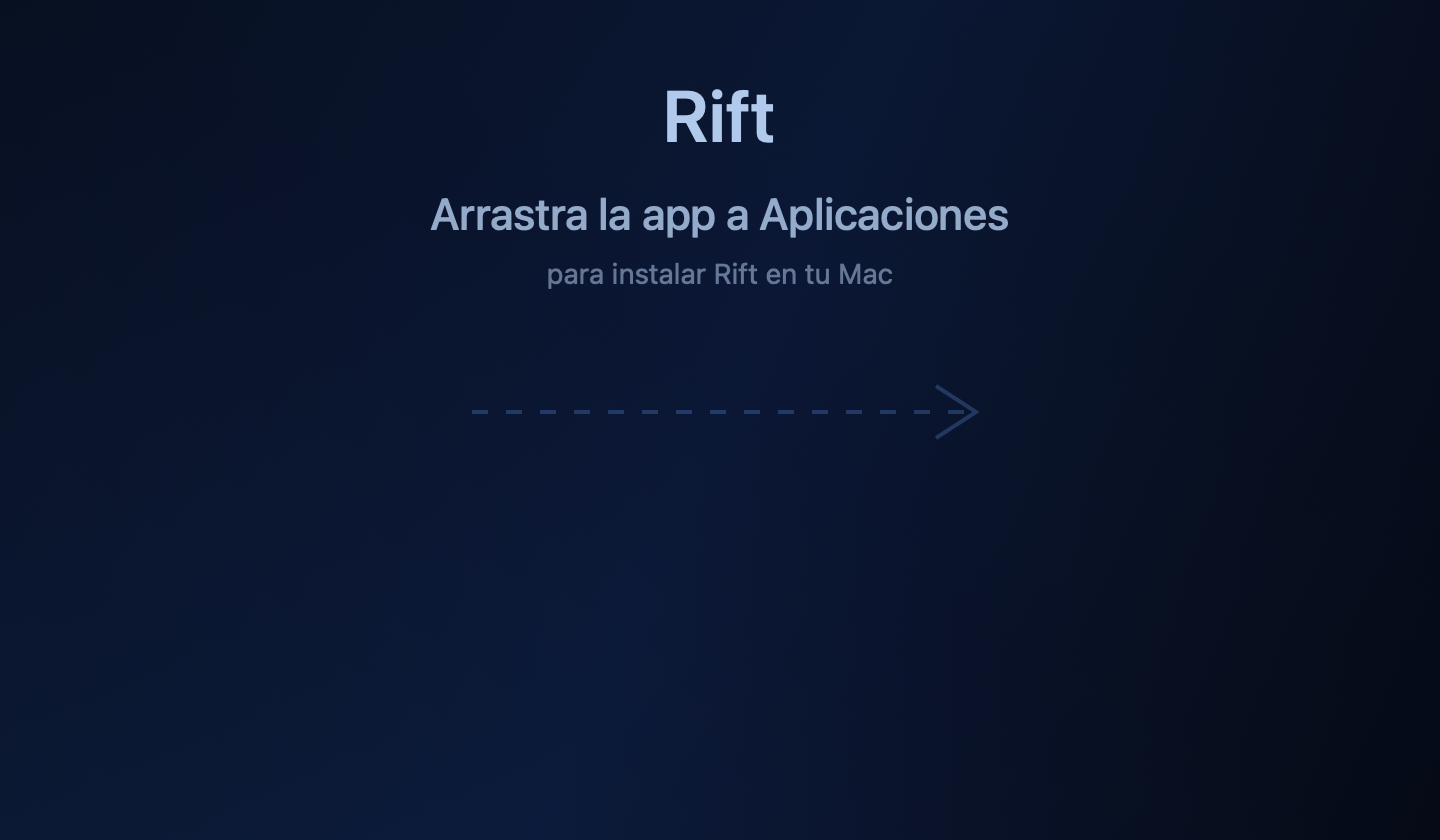
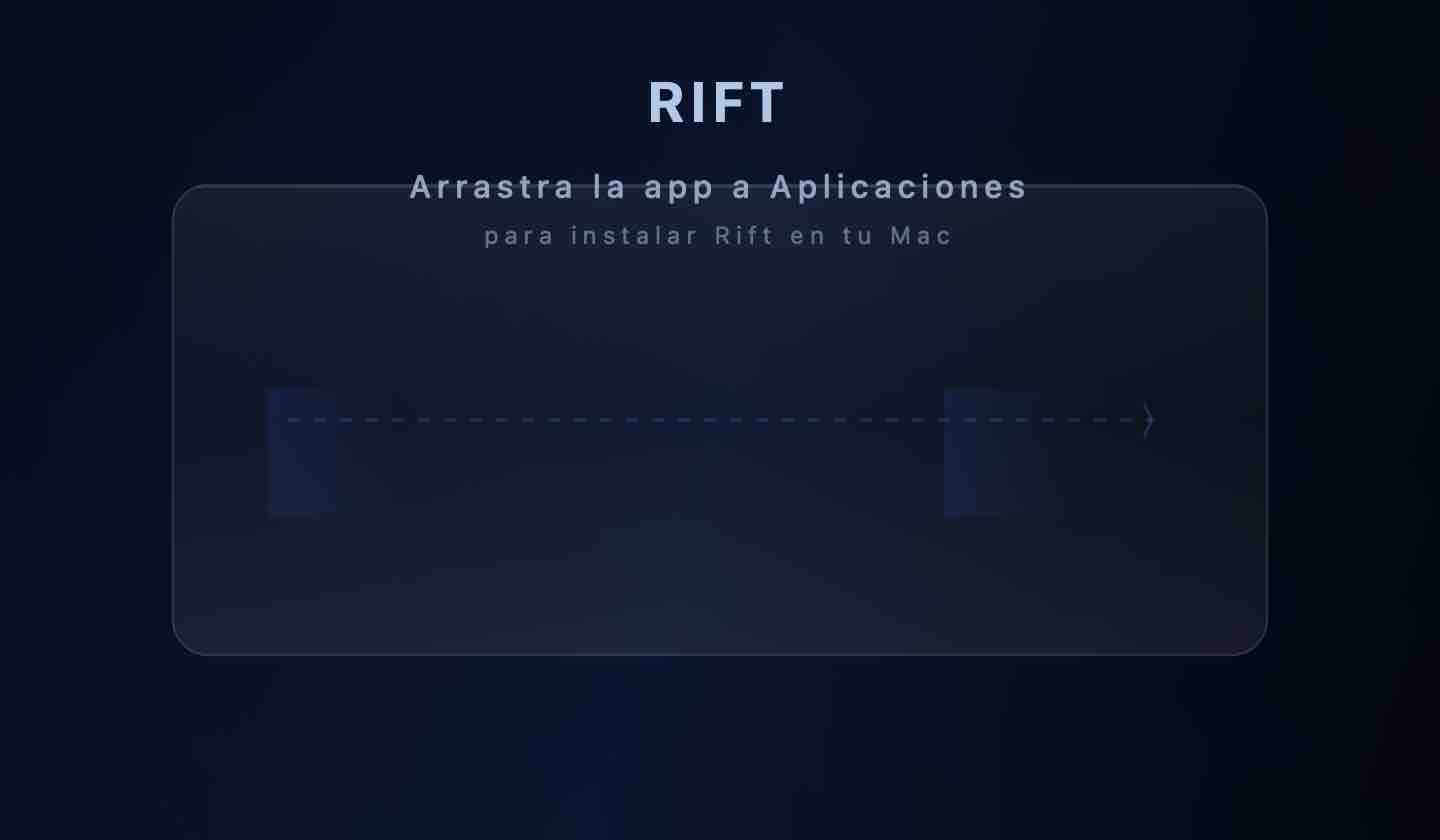
feat: Liquid Glass DMG background matching app aesthetic
Generated via gen-dmg-bg.swift — dark glass panel with frost effect,
Rift branding, icon position guides. Matches the app's Liquid Glass
visual style.

diff --git a/scripts/gen-dmg-bg.swift b/scripts/gen-dmg-bg.swift
@@ -1,0 +1,138 @@
+// Generates a Liquid Glass DMG background matching the app's aesthetic
+// Usage: swift -F /Library/Frameworks scripts/gen-dmg-bg.swift [output.png]
+
+import AppKit
+import Foundation
+
+let output = CommandLine.arguments.dropFirst().first ?? "scripts/dmg-background.png"
+let w: CGFloat = 720
+let h: CGFloat = 420
+let scale: CGFloat = 1
+let size = NSSize(width: w, height: h)
+let image = NSImage(size: size)
+
+image.lockFocus()
+
+let rect = NSRect(origin: .zero, size: size)
+let ctx = NSGraphicsContext.current!.cgContext
+
+// ── Dark base ──
+let baseGradient = NSGradient(
+    colors: [
+        NSColor(calibratedRed: 0.02, green: 0.04, blue: 0.10, alpha: 1.0),
+        NSColor(calibratedRed: 0.04, green: 0.08, blue: 0.18, alpha: 1.0),
+        NSColor(calibratedRed: 0.01, green: 0.02, blue: 0.06, alpha: 1.0),
+    ]
+)!
+baseGradient.draw(in: rect, angle: -18)
+
+// ── Subtle vignette ──
+let vignette = NSGradient(
+    colors: [
+        NSColor(calibratedRed: 0.08, green: 0.14, blue: 0.30, alpha: 0.12),
+        NSColor.clear,
+        NSColor(calibratedRed: 0, green: 0, blue: 0, alpha: 0.30),
+    ]
+)!
+vignette.draw(in: rect, angle: 45)
+
+// ── Glass panel simulated (center area with light frost) ──
+let glassRect = NSRect(x: w * 0.12, y: h * 0.22, width: w * 0.76, height: h * 0.56)
+let glassPath = NSBezierPath(roundedRect: glassRect, xRadius: 18 * scale, yRadius: 18 * scale)
+
+ctx.saveGState()
+glassPath.addClip()
+
+// Frosted glass gradient
+let glassGradient = NSGradient(
+    colors: [
+        NSColor(calibratedWhite: 1.0, alpha: 0.07),
+        NSColor(calibratedWhite: 1.0, alpha: 0.03),
+        NSColor(calibratedWhite: 1.0, alpha: 0.06),
+    ]
+)!
+glassGradient.draw(in: glassRect, angle: 90)
+
+// Subtle white border at top
+NSColor(calibratedWhite: 1.0, alpha: 0.12).setStroke()
+let topBorder = NSBezierPath()
+topBorder.move(to: NSPoint(x: glassRect.minX + 12 * scale, y: glassRect.maxY - 1))
+topBorder.line(to: NSPoint(x: glassRect.maxX - 12 * scale, y: glassRect.maxY - 1))
+topBorder.lineWidth = 1 * scale
+topBorder.stroke()
+
+ctx.restoreGState()
+
+// Glass border stroke
+NSColor(calibratedWhite: 1.0, alpha: 0.15).setStroke()
+glassPath.lineWidth = 1 * scale
+glassPath.stroke()
+
+// ── Rift logo text ──
+func drawText(_ text: String, at point: NSPoint, size fontSize: CGFloat, weight: NSFont.Weight, alpha: CGFloat) {
+    let p = NSMutableParagraphStyle()
+    p.alignment = .center
+    let attrs: [NSAttributedString.Key: Any] = [
+        .font: NSFont.systemFont(ofSize: fontSize * scale, weight: weight),
+        .foregroundColor: NSColor(calibratedRed: 0.75, green: 0.85, blue: 0.98, alpha: alpha),
+        .paragraphStyle: p,
+        .kern: 3 * scale,
+    ]
+    let textRect = NSRect(x: point.x, y: point.y, width: w - point.x * 2, height: (fontSize + 8) * scale)
+    (text as NSString).draw(in: textRect, withAttributes: attrs)
+}
+
+drawText("RIFT", at: NSPoint(x: 0, y: h - 70 * scale), size: 28, weight: .bold, alpha: 0.92)
+drawText("Arrastra la app a Aplicaciones", at: NSPoint(x: 0, y: h - 108 * scale), size: 16, weight: .medium, alpha: 0.72)
+drawText("para instalar Rift en tu Mac", at: NSPoint(x: 0, y: h - 130 * scale), size: 12, weight: .regular, alpha: 0.44)
+
+// ── Installation guide arrow (inside glass panel) ──
+let arrowY = h * 0.50
+let arrowStartX = w * 0.20
+let arrowEndX = w * 0.80
+NSColor(calibratedRed: 0.40, green: 0.65, blue: 1.0, alpha: 0.20).setStroke()
+
+let guide = NSBezierPath()
+guide.move(to: NSPoint(x: arrowStartX, y: arrowY))
+guide.line(to: NSPoint(x: arrowEndX, y: arrowY))
+guide.lineWidth = 1.5 * scale
+let dash: [CGFloat] = [6 * scale, 7 * scale]
+guide.setLineDash(dash, count: 2, phase: 0)
+guide.stroke()
+
+let arrow = NSBezierPath()
+let arrowTip = arrowEndX - 4 * scale
+arrow.move(to: NSPoint(x: arrowTip, y: arrowY + 8 * scale))
+arrow.line(to: NSPoint(x: arrowEndX, y: arrowY))
+arrow.line(to: NSPoint(x: arrowTip, y: arrowY - 8 * scale))
+arrow.lineWidth = 1.5 * scale
+arrow.stroke()
+
+// ── App icon placeholder (subtle glow where icon sits) ──
+let iconX: CGFloat = w * 0.23
+let iconY: CGFloat = h * 0.46
+let glow = NSGradient(
+    colors: [
+        NSColor(calibratedRed: 0.20, green: 0.45, blue: 0.95, alpha: 0.10),
+        NSColor.clear,
+    ]
+)!
+glow.draw(in: NSRect(x: iconX - 32 * scale, y: iconY - 32 * scale, width: 64 * scale, height: 64 * scale), angle: 0)
+
+// ── Applications folder glow ──
+let appsX: CGFloat = w * 0.70
+glow.draw(in: NSRect(x: appsX - 32 * scale, y: iconY - 32 * scale, width: 64 * scale, height: 64 * scale), angle: 0)
+
+image.unlockFocus()
+
+guard
+    let tiff = image.tiffRepresentation,
+    let bitmap = NSBitmapImageRep(data: tiff),
+    let png = bitmap.representation(using: .png, properties: [.interlaced: false])
+else {
+    fputs("Error: could not generate background image\n", stderr)
+    exit(1)
+}
+
+try png.write(to: URL(fileURLWithPath: output))
+print("Generated: \(output) (\(png.count / 1024) KB)")
